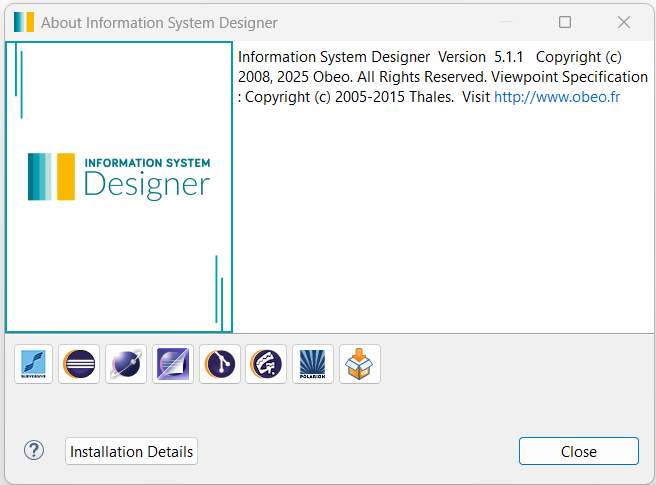
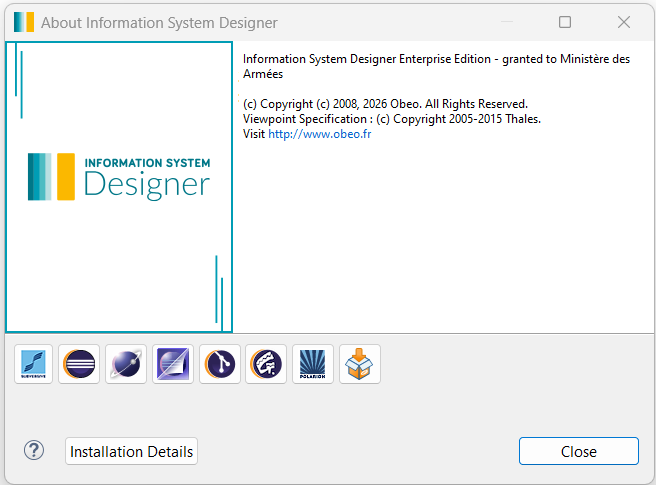
Modification suite passage ISD 6.0.0 + complétion pour l'archive .zip des tests fonctionnels du domaine.

Changed region(s): [[0.3659, 0.0928, 1.0, 0.3093]]

diff --git a/pacman-backend.html b/pacman-backend.html
@@ -204,7 +204,7 @@ span.linenos.special { color: #000000; background-color: #ffffc0; padding-left: 
 </ul>
 <h3 id="plugins-externes">Plugins externes</h3>
 <p>1 - Vérification de la version pour l'IDE</p>
-<p>Avant de commencer l'installation ou l'utilisation du plugin, il est indispensable de vérifier que l'IDE Information System Designer (ISD) utilisé correspond bien à la version 5.1.1 requise. Pour cela, ouvrez ISD puis accédez au menu "<em>Help/About Information System Designer</em>". Dans la fenêtre d'information, contrôlez attentivement le numéro de version affiché ainsi que les détails de la plateforme. Assurez-vous que la version indiquée est au moins la 5.1.1, afin de garantir la compatibilité complète du plugin et d'éviter tout comportement inattendu ou erreur d'exécution liée à une version non conforme de l'environnement d'ISD.</p>
+<p>Avant de commencer l'installation ou l'utilisation du plugin, il est indispensable de vérifier que l'IDE Information System Designer (ISD) utilisé correspond bien à la version 6.0.0 requise. Pour cela, ouvrez ISD puis accédez au menu "<em>Help/About Information System Designer</em>". Dans la fenêtre d'information, contrôlez attentivement le numéro de version affiché ainsi que les détails de la plateforme. Assurez-vous que la version indiquée est au moins la 6.0.0, afin de garantir la compatibilité complète du plugin et d'éviter tout comportement inattendu ou erreur d'exécution liée à une version non conforme de l'environnement d'ISD.</p>
 <div align="center">
 <img alt="Installation" src="images/pcm-ecr-about-version.png" width="500"/>
 </div>
@@ -234,7 +234,7 @@ span.linenos.special { color: #000000; background-color: #ffffc0; padding-left: 
 <li>Charger le plugin et le stocker dans un répertoire de votre choix sur le disque. </li>
 </ul>
 <p>1b - Compilation des sources (développement)</p>
-<p>Il est aussi possible de récupérer l'ensemble des sources et de les compiler (JDK 21 au minimum et Maven 3.9.9 ❗ Ne pas monter en 3.10.0 cela pose des problématiques avec tycho 4.0.8 !) afin d'obtenir l'update site.</p>
+<p>Il est aussi possible de récupérer l'ensemble des sources et de les compiler (JDK 21 au minimum et Maven 3.9.16 ❗ Ne pas monter en 3.10.0 cela pose des problématiques avec tycho 5.0.2 !) afin d'obtenir l'update site.</p>
 <p>Les différentes étapes sont les suivantes : </p>
 <ul>
 <li>Créer un répertoire sur le disque local</li>
@@ -3191,8 +3191,24 @@ scenarios:<span class="w">  </span><span class="m">1</span><span class="w"> </sp
 <div align="center">
 <img alt="Tests Karaté" src="images/pcm-test-soa-5.png" width="800"/>
 </div>
-<p>La compilation permet de produire un fichier JAR contenant les classes compilées de la couche métier. Ce fichier constitue une bibliothèque réutilisable par les applications qui s'appuient sur le domaine. Il ne s'agit pas d'une application autonome et il n'est donc pas destiné à être lancé directement.</p>
-<p>Une fois le domaine compilé (cf. Déploiement de l'application), les tests fonctionnels peuvent être exécutés afin de vérifier le comportement des services métier à partir des scénarios Karate et des jeux de données définis dans les fichiers YAML.</p>
+<p>Une fois le domaine compilé, les tests fonctionnels peuvent être exécutés afin de vérifier le comportement des services métier à partir des scénarios Karate et des jeux de données définis dans les fichiers YAML.</p>
+<p>Lors de l'activation du profil Maven "<em>tests-fonctionnels</em>"  (cf. Déploiement de l'application), un fichier au format "<em>.zip</em>" est généré automatiquement dans le répertoire "<em>/target</em>" du projet "<strong><em>[Nom de l'application]-domain</em></strong>". Cette archive constitue le livrable à transmettre aux testeurs fonctionnels. Elle regroupe l'ensemble des éléments nécessaires à l'exécution des tests, sans nécessiter de disposer du projet Eclipse ou de son environnement de développement.</p>
+<p>L'archive contient :</p>
+<ul>
+<li>
+<p>Le JAR exécutable "<strong><em>[Nom de l'application]-[Version]-tests-fonctionnels.jar</em></strong>" : il contient le domaine, le moteur Karate, le runner et les ressources nécessaires à l'exécution des scénarios.</p>
+</li>
+<li>
+<p>Le répertoire "<strong><em>/features</em></strong>" : il regroupe les fichiers "<em>.feature</em>" décrivant les scénarios de tests fonctionnels.</p>
+</li>
+<li>
+<p>Le répertoire "<strong><em>/data</em></strong>" : il contient les fichiers de données utilisés par les scénarios, notamment les fichiers aux format "<em>.yaml</em>".</p>
+</li>
+<li>
+<p>Le script "<strong><em>[Nom de l'application]-tests-fonctionnels.bat</em></strong>" : il facilite le lancement des tests en ligne de commande sous Windows.</p>
+</li>
+</ul>
+<p>Le testeur peut ainsi extraire l'archive dans le répertoire de son choix, adapter si nécessaire les données ou les scénarios, puis lancer les tests à l'aide du script fourni. Les tests peuvent également être exécutés directement à partir du JAR, en utilisant les paramètres prévus pour indiquer les emplacements des fichiers de fonctionnalités et de données.</p>
 <p>Pour exécuter un scénario en particulier tapper la commande suivante (le jar spécifique est toujours  construit avec le suffixe "-tests-fonctionnels") : </p>
 <div class="codehilite"><pre><span></span><code>java<span class="w"> </span>-Dtest.data.dir<span class="o">=</span><span class="s2">"C:/mes-tests/data"</span><span class="w"> </span>-jar<span class="w"> </span>demo-domain-0.0.1-SNAPSHOT-tests-fonctionnels.jar<span class="w"> </span><span class="s2">"C:/mes-tests/features/personnes.feature"</span><span class="w"> </span>--<span class="w"> </span>retouneTous
 </code></pre></div>
@@ -3217,8 +3233,7 @@ scenarios:<span class="w">  </span><span class="m">1</span><span class="w"> </sp
 <p>Pour lancer tous les scénarios : </p>
 <div class="codehilite"><pre><span></span><code>java<span class="w"> </span>-Dtest.data.dir<span class="o">=</span><span class="s2">"C:/mes-tests/data"</span><span class="w"> </span>-jar<span class="w"> </span>demo-domain-0.0.1-SNAPSHOT-tests-fonctionnels.jar<span class="w"> </span><span class="s2">"C:/mes-tests/features"</span>
 </code></pre></div>
-<p>Pour les utilisateurs qui ne souhaitent pas lancer les tests fonctionnels depuis la ligne de commande, un script Windows "<em>"[Nom de l'application]-tests-fonctionnels.bat</em>" est également fourni dans le répertoire "<em>src/test/resources</em>".</p>
-<p>Ce script permet de lancer les tests fonctionnels de manière interactive, sans avoir à saisir manuellement la commande Java.</p>
+<p>Pour les utilisateurs qui ne souhaitent pas lancer les tests fonctionnels depuis la ligne de commande, un script Windows "<em>"[Nom de l'application]-tests-fonctionnels.bat</em>" est donc également fourni avec l'archive. Ce script permet de lancer les tests fonctionnels de manière interactive, sans avoir à saisir manuellement la commande Java.</p>
 <p>Son fonctionnement est simple :</p>
 <ol>
 <li>
@@ -3264,6 +3279,8 @@ java<span class="w"> </span>-Dtest.data.dir<span class="o">=</span><span class="
 
 Confirmer<span class="w"> </span>le<span class="w"> </span>lancement<span class="w"> </span>?<span class="w"> </span><span class="o">(</span>O/N<span class="o">)</span><span class="w"> </span>:
 </code></pre></div>
+<p>À l'issue de l'exécution des tests fonctionnels, Karate génère automatiquement des rapports détaillés permettant de consulter les résultats des scénarios exécutés, notamment les tests réussis, les éventuelles erreurs et les étapes en échec. </p>
+<p>Ces rapports sont disponibles dans le répertoire "<em>/target/karate-reports</em>" du répertoire depuis lequel les tests sont exécutés. Le fichier "<em>karate-summary.html</em>" constitue le rapport de synthèse principal et peut être ouvert directement dans un navigateur Web pour consulter le bilan de l'exécution.</p>
 <h3 id="generation-des-relations">🧩 Génération des relations</h3>
 <p>Dans ce chapitre, est abordé la gestion des relations dans l'outil de modélisation, en présentant les différents types de relations supportées (association simple    , bidirectionnelle, récursive, etc.) ainsi que leurs variantes cardinalitaires. Pour chaque type de relation, est détaillé la manière dont elle peut être exprimée dans le modèle ainsi que le code généré automatiquement par l'outil, tant du point de vue des scripts SQL que de la configuration JPA. </p>
 <p>L'objectif est de fournir une vue claire et pratique des possibilités offertes, tout en mettant en lumière les impacts concrets de chaque choix de modélisation sur le code qui est produit. </p>
@@ -5757,7 +5774,15 @@ Au niveau de l'implémentation pour la récupération du document, on peut remar
 <p>Pour un build des tests fonctionnels de la couche métier, tapper la commande suivante : </p>
 <div class="codehilite"><pre><span></span><code>mvn<span class="w"> </span>clean<span class="w"> </span>package<span class="w"> </span>-P<span class="w"> </span>tests-fonctionnels
 </code></pre></div>
-<p>❗ Il est à notter que dans le cas des tests fonctionnels le build passe par un phase intermédiaire qui crée un fichier "<em>.jar</em>" supplémentaire. Celui à récupérer est donc toujours le fichier suivant : "<strong><em>[Nom de l'application]-[Version]-tests-fonctionnels.jar</em></strong>" et non : "<strong><em>[Nom de l'application]-[Version]-tests.jar</em></strong>".</p>
+<p>❗ Il est à notter que dans le cas des tests fonctionnels le build passe par un phase intermédiaire qui crée un fichier "<em>.jar</em>" supplémentaire. Celui à utiliser est donc toujours le fichier suivant : "<strong><em>[Nom de l'application]-[Version]-tests-fonctionnels.jar</em></strong>" et non : "<strong><em>[Nom de l'application]-[Version]-tests.jar</em></strong>".</p>
+<p>Par ailleurs, l'activation du profil Maven "<em>tests-fonctionnels</em>" à l'aide de la commande "<em>mvn clean package -P tests-fonctionnels</em>" déclenche la compilation du module domaine, la création de ce JAR exécutable autonome, mais aussi la génération d'une archive au format "<em>.zip</em>" regroupant tous les éléments nécessaires à l'exécution des tests fonctionnels, à savoir : </p>
+<ul>
+<li>Le JAR.</li>
+<li>Les scénarios Karate.</li>
+<li>Les fichiers de données.</li>
+<li>Le script de lancement. </li>
+</ul>
+<p>Cette archive est produite automatiquement dans le répertoire "<em>/target</em>" du projet "<em>[Nom de l'application]-domain</em>" et constitue le livrable à transmettre aux testeurs.</p>
 <h2 id="cas-projet-client">📁 Cas projet client</h2>
 <p>Deux possibilités de création de client sont offertes par <strong>Pacman</strong>. La création d'un client en SpringBoot et la création d'un client en React. Il faut bien distinguer la différence de positionnement entre ces deux frameworks car le processus de génération est complètement différent entre les deux languages.</p>
 <ul>

diff --git a/pacman-backend.md b/pacman-backend.md
@@ -101,7 +101,7 @@ Pour Pacman lors de l'initialisation d'un projet, le générateur va toujours cr
 
 1 - Vérification de la version pour l'IDE
 
-Avant de commencer l'installation ou l'utilisation du plugin, il est indispensable de vérifier que l'IDE Information System Designer (ISD) utilisé correspond bien à la version 5.1.1 requise. Pour cela, ouvrez ISD puis accédez au menu "*Help/About Information System Designer*". Dans la fenêtre d'information, contrôlez attentivement le numéro de version affiché ainsi que les détails de la plateforme. Assurez-vous que la version indiquée est au moins la 5.1.1, afin de garantir la compatibilité complète du plugin et d'éviter tout comportement inattendu ou erreur d'exécution liée à une version non conforme de l'environnement d'ISD.
+Avant de commencer l'installation ou l'utilisation du plugin, il est indispensable de vérifier que l'IDE Information System Designer (ISD) utilisé correspond bien à la version 6.0.0 requise. Pour cela, ouvrez ISD puis accédez au menu "*Help/About Information System Designer*". Dans la fenêtre d'information, contrôlez attentivement le numéro de version affiché ainsi que les détails de la plateforme. Assurez-vous que la version indiquée est au moins la 6.0.0, afin de garantir la compatibilité complète du plugin et d'éviter tout comportement inattendu ou erreur d'exécution liée à une version non conforme de l'environnement d'ISD.
 
 <div align="center">
   <img src="images/pcm-ecr-about-version.png" alt="Installation" width="500">
@@ -145,7 +145,7 @@ L'installation et la configuration de Maven dans Eclipse sont essentielles pour 
 
 1b - Compilation des sources (développement)
 
-Il est aussi possible de récupérer l'ensemble des sources et de les compiler (JDK 21 au minimum et Maven 3.9.9 ❗ Ne pas monter en 3.10.0 cela pose des problématiques avec tycho 4.0.8 !) afin d'obtenir l'update site.
+Il est aussi possible de récupérer l'ensemble des sources et de les compiler (JDK 21 au minimum et Maven 3.9.16 ❗ Ne pas monter en 3.10.0 cela pose des problématiques avec tycho 5.0.2 !) afin d'obtenir l'update site.
 
 Les différentes étapes sont les suivantes : 
 
@@ -3852,9 +3852,22 @@ Le schéma suivant donne un aperçu de l'enchaînement des différentes étapes 
    <img src="images/pcm-test-soa-5.png" alt="Tests Karaté" width="800">
 </div>
 
-La compilation permet de produire un fichier JAR contenant les classes compilées de la couche métier. Ce fichier constitue une bibliothèque réutilisable par les applications qui s'appuient sur le domaine. Il ne s'agit pas d'une application autonome et il n'est donc pas destiné à être lancé directement.
-        
-Une fois le domaine compilé (cf. Déploiement de l'application), les tests fonctionnels peuvent être exécutés afin de vérifier le comportement des services métier à partir des scénarios Karate et des jeux de données définis dans les fichiers YAML.
+Une fois le domaine compilé, les tests fonctionnels peuvent être exécutés afin de vérifier le comportement des services métier à partir des scénarios Karate et des jeux de données définis dans les fichiers YAML.
+
+Lors de l'activation du profil Maven "*tests-fonctionnels*"  (cf. Déploiement de l'application), un fichier au format "*.zip*" est généré automatiquement dans le répertoire "*/target*" du projet "***[Nom de l'application]-domain***". Cette archive constitue le livrable à transmettre aux testeurs fonctionnels. Elle regroupe l'ensemble des éléments nécessaires à l'exécution des tests, sans nécessiter de disposer du projet Eclipse ou de son environnement de développement.
+
+L'archive contient :
+
+- Le JAR exécutable "***[Nom de l'application]-[Version]-tests-fonctionnels.jar***" : il contient le domaine, le moteur Karate, le runner et les ressources nécessaires à l'exécution des scénarios.
+
+- Le répertoire "***/features***" : il regroupe les fichiers "*.feature*" décrivant les scénarios de tests fonctionnels.
+
+- Le répertoire "***/data***" : il contient les fichiers de données utilisés par les scénarios, notamment les fichiers aux format "*.yaml*".
+
+- Le script "***[Nom de l'application]-tests-fonctionnels.bat***" : il facilite le lancement des tests en ligne de commande sous Windows.
+
+
+Le testeur peut ainsi extraire l'archive dans le répertoire de son choix, adapter si nécessaire les données ou les scénarios, puis lancer les tests à l'aide du script fourni. Les tests peuvent également être exécutés directement à partir du JAR, en utilisant les paramètres prévus pour indiquer les emplacements des fichiers de fonctionnalités et de données.
 
 Pour exécuter un scénario en particulier tapper la commande suivante (le jar spécifique est toujours  construit avec le suffixe "-tests-fonctionnels") : 
 
@@ -3880,9 +3893,7 @@ Pour lancer tous les scénarios :
 java -Dtest.data.dir="C:/mes-tests/data" -jar demo-domain-0.0.1-SNAPSHOT-tests-fonctionnels.jar "C:/mes-tests/features"
 ```
 
-Pour les utilisateurs qui ne souhaitent pas lancer les tests fonctionnels depuis la ligne de commande, un script Windows "*"[Nom de l'application]-tests-fonctionnels.bat*" est également fourni dans le répertoire "*src/test/resources*".
-
-Ce script permet de lancer les tests fonctionnels de manière interactive, sans avoir à saisir manuellement la commande Java.
+Pour les utilisateurs qui ne souhaitent pas lancer les tests fonctionnels depuis la ligne de commande, un script Windows "*"[Nom de l'application]-tests-fonctionnels.bat*" est donc également fourni avec l'archive. Ce script permet de lancer les tests fonctionnels de manière interactive, sans avoir à saisir manuellement la commande Java.
 
 Son fonctionnement est simple :
 
@@ -3926,6 +3937,10 @@ java -Dtest.data.dir="C:\Tests\data" -jar "C:\Tests\demo-domain-0.0.1-SNAPSHOT-t
 Confirmer le lancement ? (O/N) :
     
 ```
+
+À l'issue de l'exécution des tests fonctionnels, Karate génère automatiquement des rapports détaillés permettant de consulter les résultats des scénarios exécutés, notamment les tests réussis, les éventuelles erreurs et les étapes en échec. 
+
+Ces rapports sont disponibles dans le répertoire "*/target/karate-reports*" du répertoire depuis lequel les tests sont exécutés. Le fichier "*karate-summary.html*" constitue le rapport de synthèse principal et peut être ouvert directement dans un navigateur Web pour consulter le bilan de l'exécution.
 
 ### 🧩 Génération des relations
     
@@ -6822,7 +6837,17 @@ Pour un build des tests fonctionnels de la couche métier, tapper la commande su
 mvn clean package -P tests-fonctionnels
 ```
 
-❗ Il est à notter que dans le cas des tests fonctionnels le build passe par un phase intermédiaire qui crée un fichier "*.jar*" supplémentaire. Celui à récupérer est donc toujours le fichier suivant : "***[Nom de l'application]-[Version]-tests-fonctionnels.jar***" et non : "***[Nom de l'application]-[Version]-tests.jar***".
+❗ Il est à notter que dans le cas des tests fonctionnels le build passe par un phase intermédiaire qui crée un fichier "*.jar*" supplémentaire. Celui à utiliser est donc toujours le fichier suivant : "***[Nom de l'application]-[Version]-tests-fonctionnels.jar***" et non : "***[Nom de l'application]-[Version]-tests.jar***".
+
+Par ailleurs, l'activation du profil Maven "*tests-fonctionnels*" à l'aide de la commande "*mvn clean package -P tests-fonctionnels*" déclenche la compilation du module domaine, la création de ce JAR exécutable autonome, mais aussi la génération d'une archive au format "*.zip*" regroupant tous les éléments nécessaires à l'exécution des tests fonctionnels, à savoir : 
+
+- Le JAR.
+- Les scénarios Karate.
+- Les fichiers de données.
+- Le script de lancement. 
+ 
+Cette archive est produite automatiquement dans le répertoire "*/target*" du projet "*[Nom de l'application]-domain*" et constitue le livrable à transmettre aux testeurs.
+
 
 ## 📁 Cas projet client 
 
